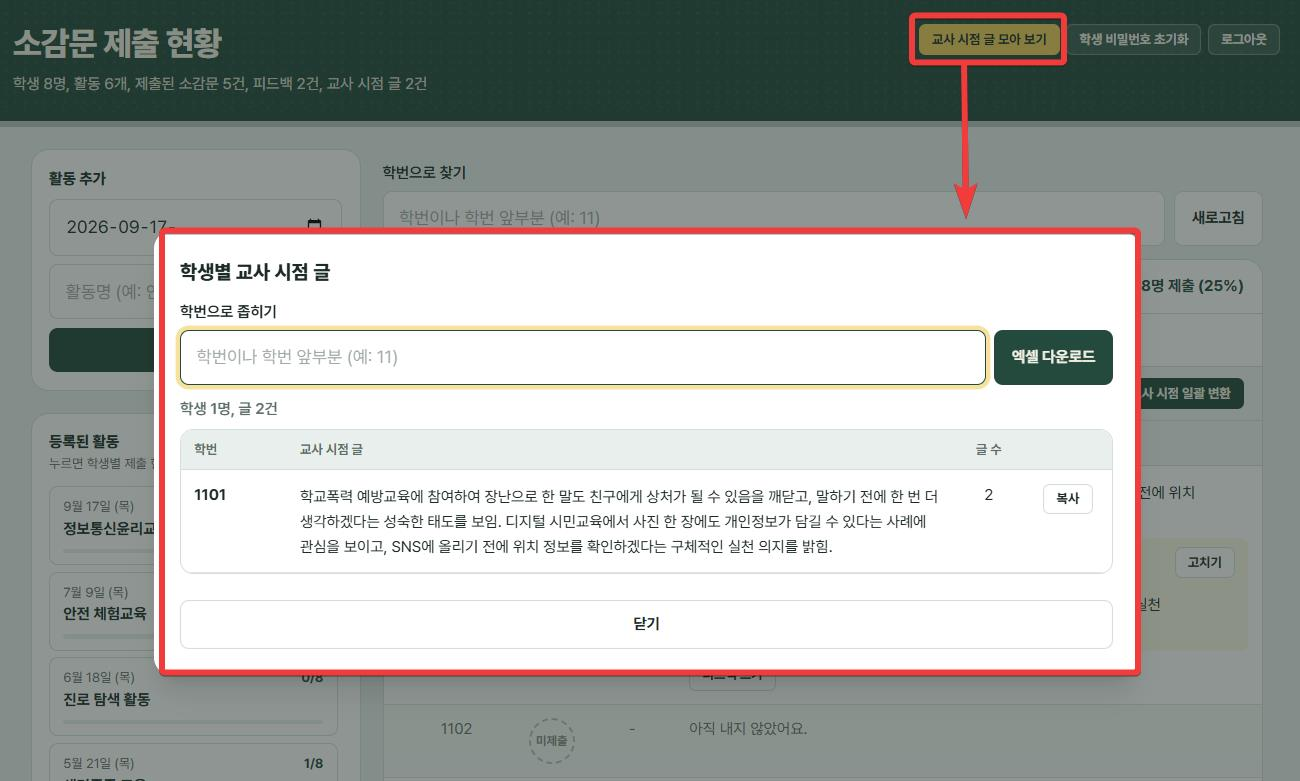
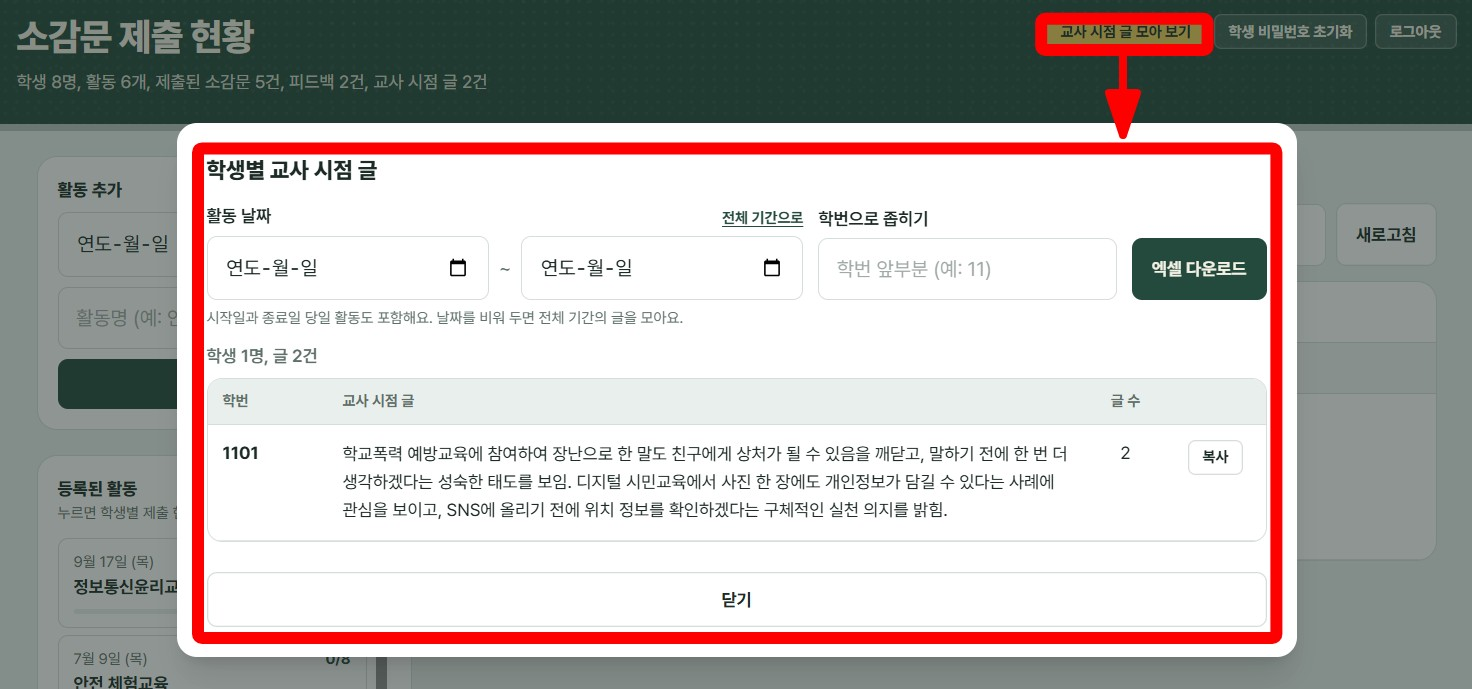
소감문관리 문구 수정

diff --git a/pages/automation/student/reviewmanagement.html b/pages/automation/student/reviewmanagement.html
@@ -132,7 +132,7 @@
                 <i class="bi bi-journal-check"></i> 학생 소감문 관리 앱
             </h1>
             <p class="text-muted fs-6">
-                구글 스프레드시트와 연동하여 소감문 제출부터 피드백, AI 교사 시점 기록, 엑셀 정리까지 한곳에서 관리하세요.
+                구글 스프레드시트와 연동하여 소감문 제출부터 피드백, 교사 시점 기록 변환, 엑셀 정리까지 한곳에서 관리하세요.
             </p>
         </div>
 
